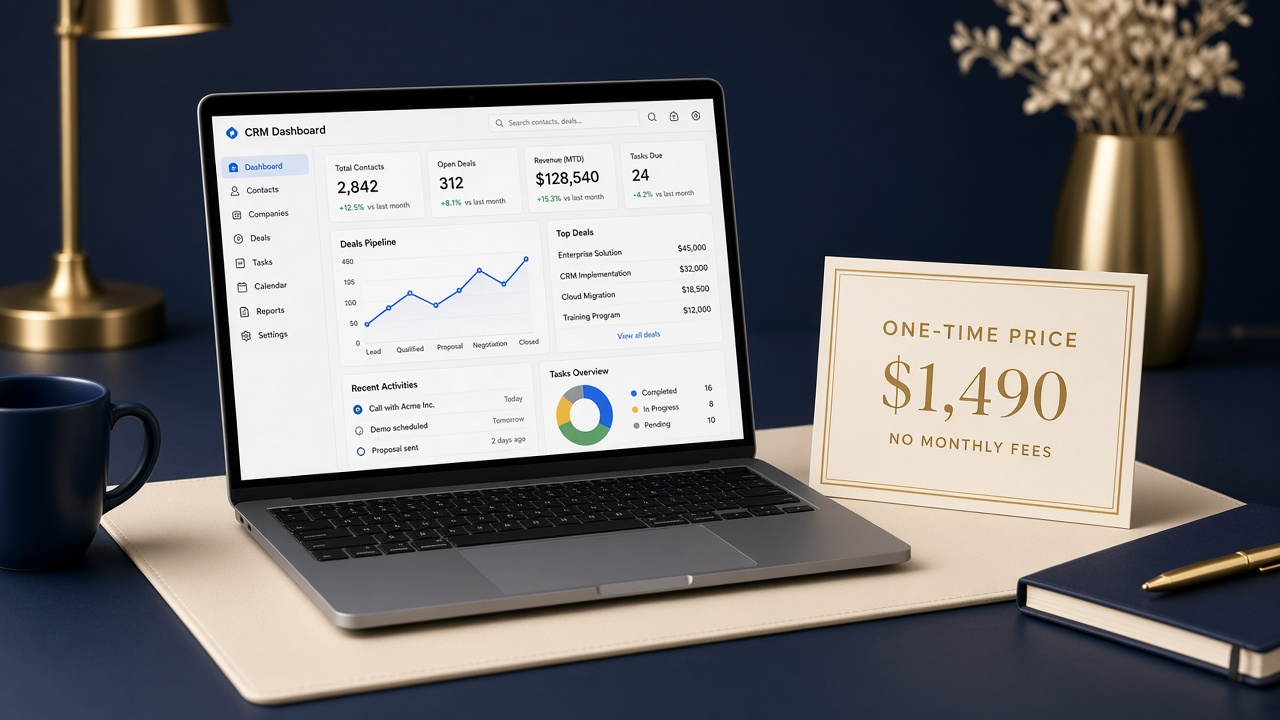
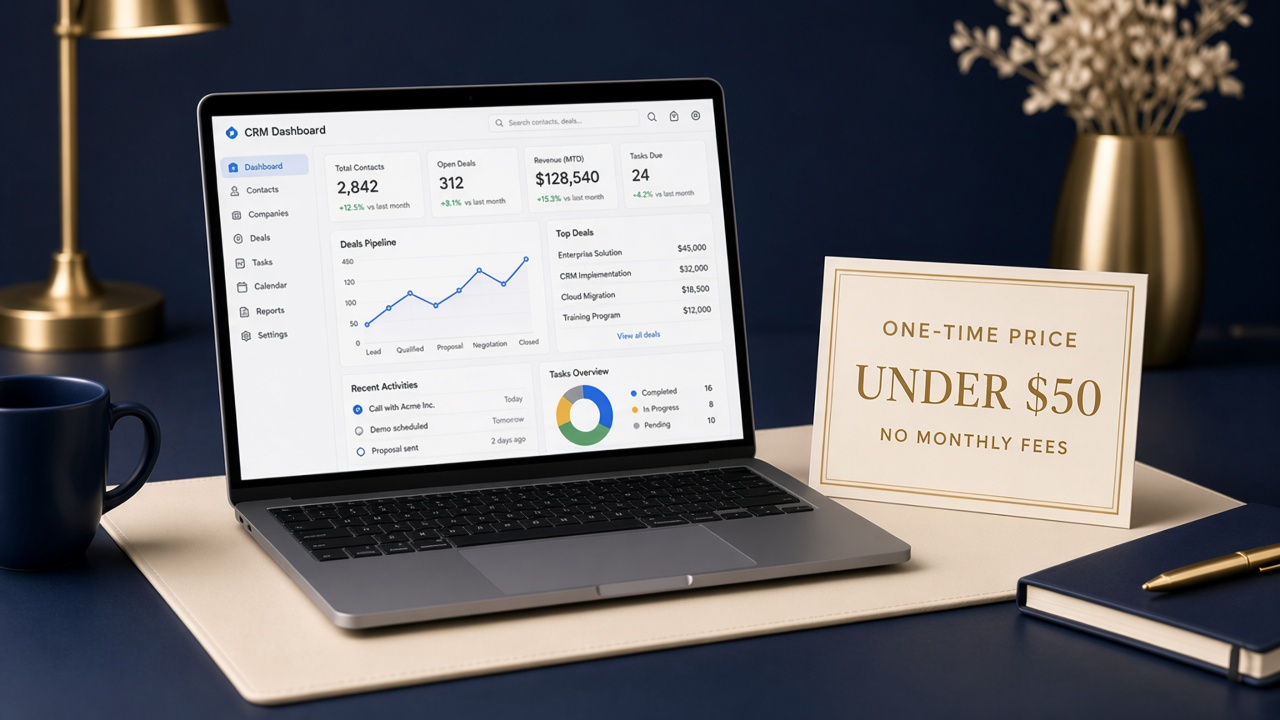
Refactor CRM savings to one-time pay under $50 with 70% monthly save.
Replace SaaS competitor cards with reactive brand-matched benefit cards and overlay the mockup price badge.

diff --git a/frontend/src/components/crm-savings.tsx b/frontend/src/components/crm-savings.tsx
@@ -1,7 +1,7 @@
 import Image from "next/image";
 import { Link } from "@/i18n/navigation";
 
-type Competitor = { name: string; price: string; plan: string; save: string };
+type BenefitCard = { eyebrow: string; title: string; body: string };
 
 export function CrmSavingsSection({
   title,
@@ -9,64 +9,103 @@ export function CrmSavingsSection({
   highlightPrice,
   highlightNote,
   savingsLabel,
+  monthlySave,
   cta,
-  competitors,
+  cards,
   imageSrc,
+  photoBadgeTop,
+  photoBadgeMid,
+  photoBadgeBottom,
 }: {
   title: string;
   highlightName: string;
   highlightPrice: string;
   highlightNote: string;
   savingsLabel: string;
+  monthlySave: string;
   cta: string;
-  competitors: Competitor[];
+  cards: BenefitCard[];
   imageSrc: string;
+  photoBadgeTop: string;
+  photoBadgeMid: string;
+  photoBadgeBottom: string;
 }) {
   return (
     <section className="overflow-hidden">
-      <div className="bg-[#1a4f9c] px-5 py-12 text-center md:py-16">
-        <h2 className="mx-auto max-w-3xl font-display text-3xl font-semibold text-white md:text-5xl">{title}</h2>
+      <div className="bg-gradient-to-br from-[#3d322a] via-[#53463c] to-[#c96b52] px-5 py-12 text-center md:py-16">
+        <h2 className="mx-auto max-w-3xl font-display text-3xl font-semibold text-[#fff8f1] md:text-5xl">
+          {title}
+        </h2>
       </div>
-      <div className="relative bg-[#eef4fb] px-5 pb-16 pt-10 text-ink md:px-8">
+
+      <div className="relative bg-[#f6ebe0] px-5 pb-16 pt-10 text-[#3d322a] md:px-8">
         <div className="mx-auto grid max-w-[1100px] gap-8 lg:grid-cols-[1.05fr_0.95fr] lg:items-start">
-          <div className="relative z-10 -mt-16 overflow-hidden rounded-2xl border border-black/5 bg-gradient-to-b from-[#f7efe4] to-[#efe2d0] shadow-[0_24px_60px_rgba(20,40,80,.18)]">
+          <div className="group relative z-10 -mt-16 overflow-hidden rounded-2xl border border-[#e4d0bc] bg-gradient-to-b from-[#fff8f1] to-[#f7efe6] shadow-[0_24px_60px_rgba(61,50,42,.14)] transition duration-300 hover:-translate-y-1 hover:shadow-[0_28px_70px_rgba(201,107,82,.22)]">
             <div className="p-6 md:p-8">
-              <p className="text-xs font-semibold uppercase tracking-[0.18em] text-[#1a4f9c]">{highlightName}</p>
-              <p className="mt-4 font-display text-6xl font-bold tracking-tight text-ink md:text-7xl">{highlightPrice}</p>
-              <p className="mt-3 max-w-[22ch] text-sm leading-relaxed text-ink/70">{highlightNote}</p>
+              <p className="text-xs font-semibold uppercase tracking-[0.18em] text-[#c96b52]">
+                {highlightName}
+              </p>
+              <p className="mt-4 font-display text-5xl font-bold tracking-tight text-[#3d322a] md:text-6xl">
+                {highlightPrice}
+              </p>
+              <p className="mt-3 max-w-[28ch] text-sm leading-relaxed text-[#7a6b5c]">
+                {highlightNote}
+              </p>
               <Link
                 href="/systems/client-tracker"
-                className="mt-8 inline-flex h-12 items-center rounded-full bg-[#1a4f9c] px-6 font-medium text-white"
+                className="mt-8 inline-flex h-12 items-center rounded-full bg-[#c96b52] px-6 font-medium text-[#fff8f1] transition hover:bg-[#d9924a] hover:shadow-[0_10px_28px_rgba(201,107,82,.35)]"
               >
                 {cta}
               </Link>
             </div>
-            <div className="relative aspect-[16/10] w-full">
-              <Image src={imageSrc} alt="" fill className="object-cover object-center" sizes="(min-width: 1024px) 50vw, 100vw" />
+            <div className="relative aspect-[16/10] w-full overflow-hidden">
+              <Image
+                src={imageSrc}
+                alt=""
+                fill
+                className="object-cover object-center transition duration-500 group-hover:scale-[1.03]"
+                sizes="(min-width: 1024px) 50vw, 100vw"
+              />
+              <div className="pointer-events-none absolute inset-y-[18%] right-[4%] flex w-[28%] min-w-[7.5rem] max-w-[11rem] items-center justify-center sm:right-[5%]">
+                <div className="w-full rounded-md border-2 border-[#c96b52] bg-[#fff8f1]/96 px-2 py-3 text-center shadow-[0_10px_28px_rgba(61,50,42,.25)] backdrop-blur-[2px] sm:px-3 sm:py-4">
+                  <p className="text-[8px] font-semibold uppercase tracking-[0.14em] text-[#c96b52] sm:text-[9px]">
+                    {photoBadgeTop}
+                  </p>
+                  <p className="mt-1 font-display text-[clamp(0.85rem,2.6vw,1.35rem)] font-bold leading-tight text-[#3d322a]">
+                    {photoBadgeMid}
+                  </p>
+                  <p className="mt-1 text-[8px] font-semibold uppercase tracking-[0.12em] text-[#c96b52] sm:text-[9px]">
+                    {photoBadgeBottom}
+                  </p>
+                </div>
+              </div>
             </div>
           </div>
 
-          <div className="overflow-hidden rounded-2xl border border-black/5 bg-white shadow-[0_18px_50px_rgba(20,40,80,.12)]">
-            <div className="grid grid-cols-3 divide-x divide-black/5 border-b border-black/5">
-              {competitors.map((c) => (
-                <div key={c.name} className="px-3 py-5 text-center md:px-4 md:py-6">
-                  <p className="text-[11px] font-semibold uppercase tracking-wider text-ink/45">{c.name}</p>
-                  <p className="mt-2 font-display text-2xl font-bold text-ink md:text-4xl">{c.price}</p>
-                  <p className="mt-1 text-[11px] leading-snug text-ink/55 md:text-xs">{c.plan}</p>
-                </div>
-              ))}
-            </div>
-            <div className="bg-[#0f2540] px-4 py-5 md:px-6 md:py-6">
-              <span className="inline-flex rounded-full bg-[#f5e6a8] px-3 py-1 text-[11px] font-semibold text-ink">
+          <div className="flex flex-col gap-4">
+            <div className="rounded-2xl border border-[#e4d0bc] bg-[#3d322a] px-5 py-6 shadow-[0_18px_50px_rgba(61,50,42,.12)] transition duration-300 hover:-translate-y-1 hover:shadow-[0_22px_56px_rgba(61,50,42,.2)] md:px-6">
+              <span className="inline-flex rounded-full bg-[#e4efe8] px-3 py-1 text-[11px] font-semibold text-[#3d322a]">
                 {savingsLabel}
               </span>
-              <div className="mt-5 grid grid-cols-3 gap-2 text-center">
-                {competitors.map((c) => (
-                  <div key={c.name + c.save}>
-                    <p className="font-display text-3xl font-bold text-white md:text-5xl">{c.save}</p>
-                  </div>
-                ))}
-              </div>
+              <p className="mt-4 font-display text-5xl font-bold text-[#fff8f1] md:text-6xl">{monthlySave}</p>
+              <p className="mt-2 text-sm text-[#efe4d6]">{cards[1]?.title}</p>
+            </div>
+
+            <div className="grid gap-4 sm:grid-cols-3 lg:grid-cols-1 xl:grid-cols-3">
+              {cards.map((card) => (
+                <article
+                  key={card.eyebrow}
+                  className="group/card rounded-2xl border border-[#e4d0bc] bg-[#fff8f1] p-5 shadow-[0_12px_36px_rgba(61,50,42,.08)] transition duration-300 hover:-translate-y-1.5 hover:border-[#c96b52]/55 hover:bg-white hover:shadow-[0_20px_48px_rgba(201,107,82,.18)]"
+                >
+                  <p className="text-[11px] font-semibold uppercase tracking-[0.16em] text-[#c96b52] transition group-hover/card:text-[#d9924a]">
+                    {card.eyebrow}
+                  </p>
+                  <h3 className="mt-3 font-display text-xl font-semibold text-[#3d322a] md:text-2xl">
+                    {card.title}
+                  </h3>
+                  <p className="mt-2 text-sm leading-relaxed text-[#7a6b5c]">{card.body}</p>
+                </article>
+              ))}
             </div>
           </div>
         </div>

diff --git a/frontend/src/app/[locale]/page.tsx b/frontend/src/app/[locale]/page.tsx
@@ -125,12 +125,16 @@ export default async function Home({ params }: { params: Promise<{ locale: strin
         highlightPrice={ta("saveHighlightPrice")}
         highlightNote={ta("saveHighlightNote")}
         savingsLabel={ta("saveLabel")}
+        monthlySave={ta("saveMonthlySave")}
         cta={ta("saveCta")}
         imageSrc="/images/crm-onetime-savings.png"
-        competitors={[
-          { name: ta("saveComp1Name"), price: ta("saveComp1Price"), plan: ta("saveComp1Plan"), save: ta("saveComp1Save") },
-          { name: ta("saveComp2Name"), price: ta("saveComp2Price"), plan: ta("saveComp2Plan"), save: ta("saveComp2Save") },
-          { name: ta("saveComp3Name"), price: ta("saveComp3Price"), plan: ta("saveComp3Plan"), save: ta("saveComp3Save") },
+        photoBadgeTop={ta("saveBadgeTop")}
+        photoBadgeMid={ta("saveBadgeMid")}
+        photoBadgeBottom={ta("saveBadgeBottom")}
+        cards={[
+          { eyebrow: ta("saveCard1Eyebrow"), title: ta("saveCard1Title"), body: ta("saveCard1Body") },
+          { eyebrow: ta("saveCard2Eyebrow"), title: ta("saveCard2Title"), body: ta("saveCard2Body") },
+          { eyebrow: ta("saveCard3Eyebrow"), title: ta("saveCard3Title"), body: ta("saveCard3Body") },
         ]}
       />
 

diff --git a/frontend/src/app/[locale]/about/page.tsx b/frontend/src/app/[locale]/about/page.tsx
@@ -84,12 +84,16 @@ export default async function About({ params }: { params: Promise<{ locale: stri
         highlightPrice={t("saveHighlightPrice")}
         highlightNote={t("saveHighlightNote")}
         savingsLabel={t("saveLabel")}
+        monthlySave={t("saveMonthlySave")}
         cta={t("saveCta")}
         imageSrc="/images/crm-onetime-savings.png"
-        competitors={[
-          { name: t("saveComp1Name"), price: t("saveComp1Price"), plan: t("saveComp1Plan"), save: t("saveComp1Save") },
-          { name: t("saveComp2Name"), price: t("saveComp2Price"), plan: t("saveComp2Plan"), save: t("saveComp2Save") },
-          { name: t("saveComp3Name"), price: t("saveComp3Price"), plan: t("saveComp3Plan"), save: t("saveComp3Save") },
+        photoBadgeTop={t("saveBadgeTop")}
+        photoBadgeMid={t("saveBadgeMid")}
+        photoBadgeBottom={t("saveBadgeBottom")}
+        cards={[
+          { eyebrow: t("saveCard1Eyebrow"), title: t("saveCard1Title"), body: t("saveCard1Body") },
+          { eyebrow: t("saveCard2Eyebrow"), title: t("saveCard2Title"), body: t("saveCard2Body") },
+          { eyebrow: t("saveCard3Eyebrow"), title: t("saveCard3Title"), body: t("saveCard3Body") },
         ]}
       />
 
